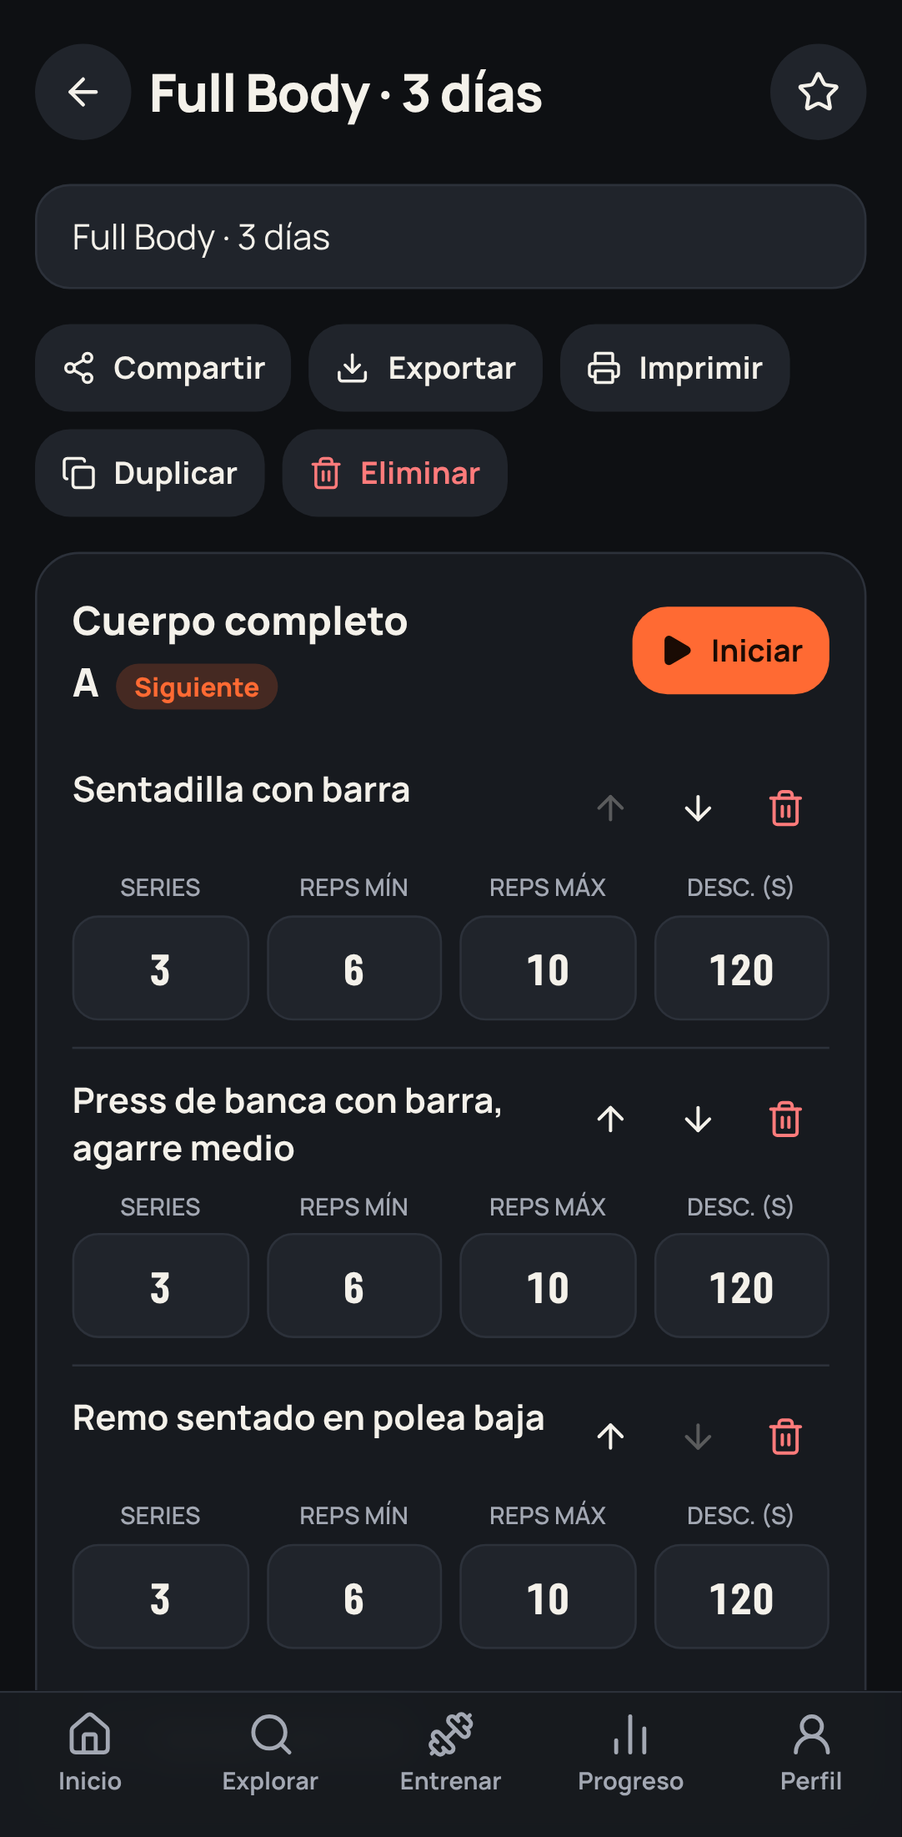
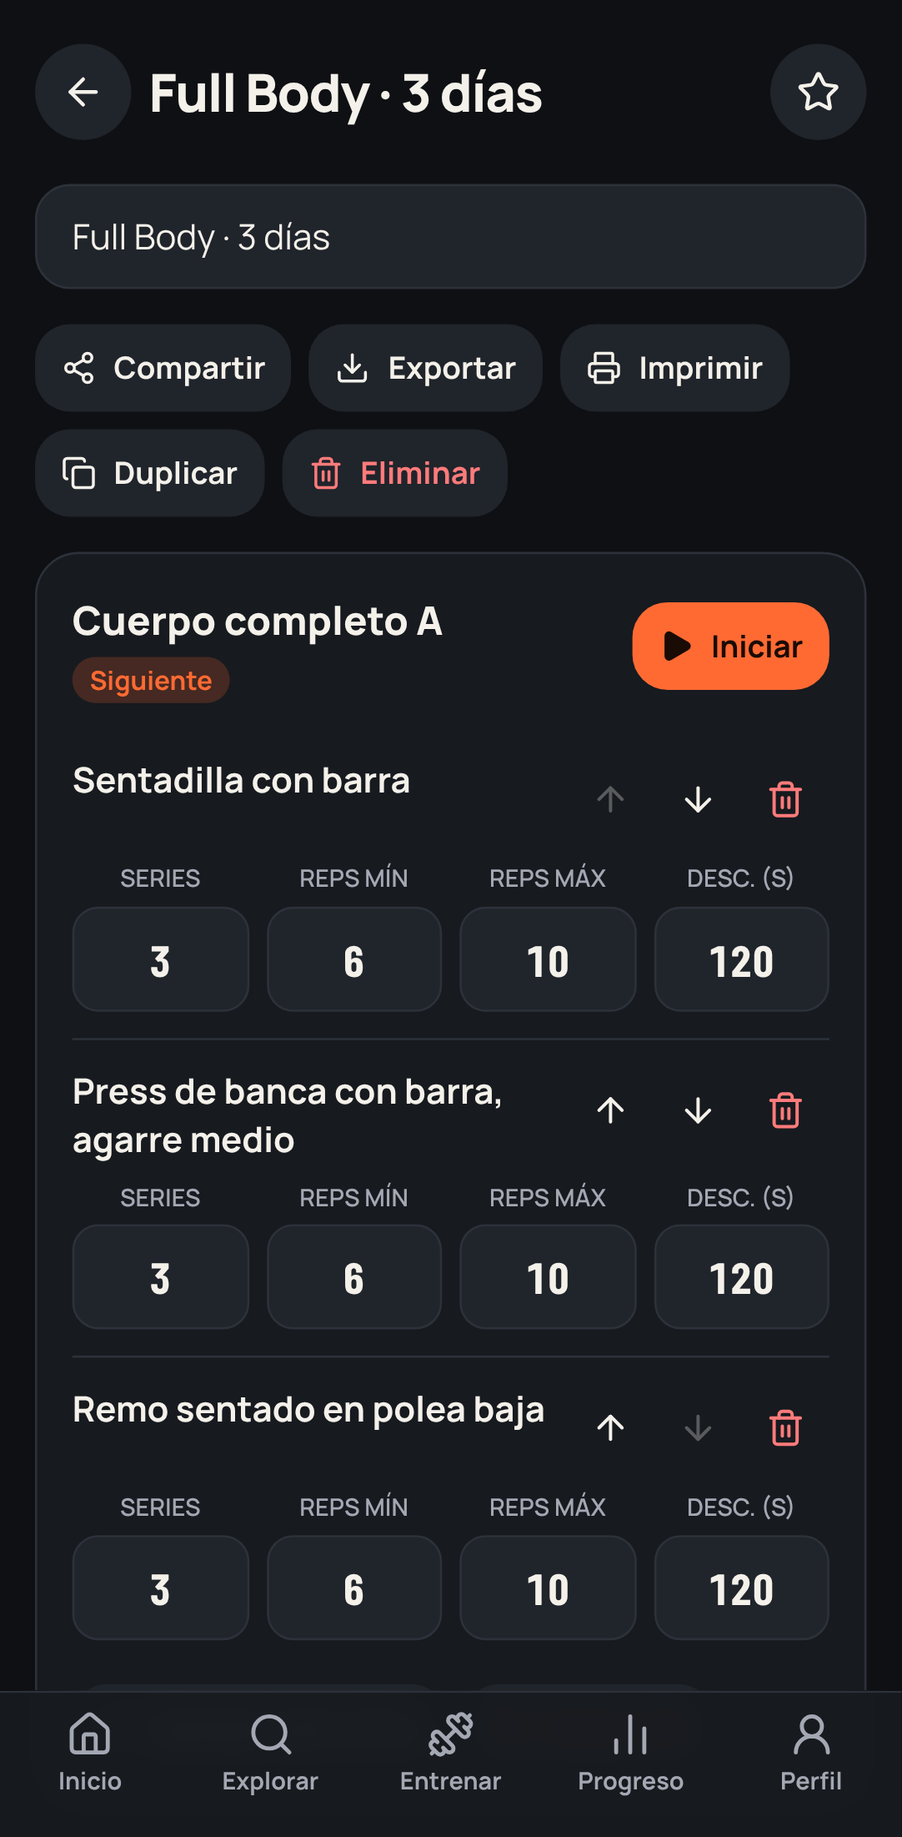
v0.4: rutina propia eligiendo ejercicios y borrado desde la lista
Claude-Session: https://claude.ai/code/session_019mFW7hgLcprbgp2Q4SLbXT

diff --git a/src/pages/Train.tsx b/src/pages/Train.tsx
@@ -1,13 +1,13 @@
 import { useRef, useState } from 'react'
 import { Link, useNavigate } from 'react-router-dom'
-import { ChevronRight, Play, Sparkles, Star, Upload } from 'lucide-react'
+import { ChevronRight, ListPlus, Play, Sparkles, Star, Trash2, Upload } from 'lucide-react'
 import { db, uid } from '../lib/db'
 import { startSession, useActive, useProfile, useRoutines } from '../lib/store'
 import { loadCatalog } from '../lib/catalog'
 import { generateRoutine } from '../engine/generator'
 import { GOAL } from '../lib/labels'
 import type { Goal, Routine } from '../lib/types'
-import { Button, Card, Chip, Empty, Page, Sheet } from '../components/ui'
+import { Button, Card, Chip, Empty, Field, Page, Sheet, inputCls } from '../components/ui'
 
 function validRoutine(r: any): r is Routine {
   return r && typeof r.name === 'string' && Array.isArray(r.days) && r.days.length > 0 && r.days.every((d: any) => typeof d.name === 'string' && Array.isArray(d.items) &&
@@ -20,6 +20,14 @@ export default function Train() {
   const [gen, setGen] = useState(false)
   const [days, setDays] = useState(profile.days), [minutes, setMinutes] = useState(profile.minutes), [goal, setGoal] = useState<Goal>(profile.goal)
   const [msg, setMsg] = useState('')
+  const [own, setOwn] = useState(false), [ownName, setOwnName] = useState(''), [ownDays, setOwnDays] = useState(3)
+  const [del, setDel] = useState<Routine | null>(null)
+  const createOwn = async (e: React.FormEvent) => {
+    e.preventDefault()
+    const now = Date.now()
+    const r: Routine = { id: uid(), name: ownName.trim() || 'Mi rutina', split: 'Personalizada', days: Array.from({ length: ownDays }, (_, i) => ({ name: `Día ${i + 1}`, items: [] })), fav: false, createdAt: now, updatedAt: now, nextDay: 0, generated: false }
+    await db.routines.put(r); setOwn(false); setOwnName(''); nav(`/routine/${r.id}`)
+  }
   const file = useRef<HTMLInputElement>(null)
 
   const create = async () => {
@@ -47,8 +55,9 @@ export default function Train() {
         {active && <Card className="border-ember bg-ember/10"><p className="font-extrabold">{active.dayName} en curso</p>
           <Button variant="primary" size="lg" className="mt-3 w-full" onClick={() => nav('/workout')}><Play size={20} fill="currentColor" /> Continuar entrenamiento</Button></Card>}
 
+        <Button size="lg" variant="primary" className="w-full" onClick={() => setGen(true)}><Sparkles size={20} /> Generar rutina automática</Button>
         <div className="grid grid-cols-2 gap-3">
-          <Button size="lg" variant="primary" onClick={() => setGen(true)}><Sparkles size={20} /> Generar rutina</Button>
+          <Button size="lg" onClick={() => setOwn(true)}><ListPlus size={20} /> Crear la mía</Button>
           <Button size="lg" disabled={!!active} onClick={async () => { await startSession(null); nav('/workout') }}>Entreno libre</Button>
         </div>
 
@@ -59,12 +68,27 @@ export default function Train() {
           {msg && <p className="mb-2 text-sm text-mute" role="status">{msg}</p>}
           {routines.length === 0 ? <Empty title="Sin rutinas todavía">Genera una rutina a tu medida o importa un archivo compartido.</Empty> : (
             <ul className="space-y-2">{routines.map((r) => (
-              <li key={r.id}><Link to={`/routine/${r.id}`} className="flex min-h-16 items-center gap-3 rounded-2xl border border-line bg-surface px-4 py-3">
+              <li key={r.id} className="flex items-stretch gap-2"><Link to={`/routine/${r.id}`} className="flex min-h-16 min-w-0 flex-1 items-center gap-3 rounded-2xl border border-line bg-surface px-4 py-3">
                 <div className="min-w-0 flex-1"><p className="flex items-center gap-2 truncate font-bold">{r.fav && <Star size={16} className="shrink-0 text-amber" fill="currentColor" aria-label="Favorita" />}{r.name}</p>
                   <p className="truncate text-sm text-mute">{r.days.length} días · siguiente: {r.days[r.nextDay % r.days.length]?.name}</p></div>
-                <ChevronRight className="text-mute" aria-hidden /></Link></li>))}</ul>)}
+                <ChevronRight className="shrink-0 text-mute" aria-hidden /></Link>
+                <button aria-label={`Eliminar rutina ${r.name}`} onClick={() => setDel(r)} className="grid w-12 shrink-0 place-items-center rounded-2xl border border-line bg-surface text-bad"><Trash2 size={18} /></button></li>))}</ul>)}
         </section>
       </div>
+
+      <Sheet open={own} onClose={() => setOwn(false)} title="Crear mi rutina">
+        <form onSubmit={createOwn} className="space-y-5">
+          <Field label="Nombre"><input className={inputCls} maxLength={60} value={ownName} onChange={(e) => setOwnName(e.target.value)} placeholder="Ej. Pierna y glúteo" /></Field>
+          <fieldset><legend className="mb-2 text-sm font-semibold">¿Cuántos días distintos tiene?</legend><div className="flex flex-wrap gap-2">{[1, 2, 3, 4, 5, 6, 7].map((d) => <Chip key={d} type="button" on={ownDays === d} onClick={() => setOwnDays(d)} aria-label={`${d} ${d === 1 ? 'día' : 'días'}`}>{d}</Chip>)}</div></fieldset>
+          <p className="text-sm text-mute">En el siguiente paso eliges los ejercicios de cada día. Después puedes agregar o quitar días.</p>
+          <Button type="submit" variant="primary" size="lg" className="w-full">Elegir ejercicios</Button>
+        </form>
+      </Sheet>
+      <Sheet open={!!del} onClose={() => setDel(null)} title="¿Eliminar esta rutina?">
+        <p className="text-sm text-mute">Se eliminará «{del?.name}». Tus entrenamientos ya registrados se conservan en el historial.</p>
+        <div className="mt-4 flex gap-3"><Button className="flex-1" onClick={() => setDel(null)}>Cancelar</Button>
+          <Button variant="danger" className="flex-1" onClick={async () => { if (del) await db.routines.delete(del.id); setDel(null) }}>Eliminar rutina</Button></div>
+      </Sheet>
 
       <Sheet open={gen} onClose={() => setGen(false)} title="Generar rutina">
         <div className="space-y-5">

diff --git a/src/pages/RoutineView.tsx b/src/pages/RoutineView.tsx
@@ -8,6 +8,7 @@ import { exById, useCatalog } from '../lib/catalog'
 import { prescribe } from '../engine/prescription'
 import type { Routine, RoutineItem } from '../lib/types'
 import { Button, Card, Empty, Page, Sheet, inputCls } from '../components/ui'
+
 import { ExercisePicker } from './Explore'
 
 export const download = (name: string, text: string, type = 'application/json') => {
@@ -28,6 +29,7 @@ export default function RoutineView() {
   const r = useLiveQuery(async () => (await db.routines.get(id!)) ?? null, [id], undefined)
   const [addTo, setAddTo] = useState<number | null>(null)
   const [confirm, setConfirm] = useState(false)
+  const [delDay, setDelDay] = useState<number | null>(null)
   const [note, setNote] = useState('')
   const back = <button onClick={() => nav('/train')} aria-label="Volver" className="grid size-11 shrink-0 place-items-center rounded-full bg-raised"><ArrowLeft size={20} /></button>
   if (r === undefined) return <Page title="Rutina" back={back}><p className="text-mute" role="status">Cargando…</p></Page>
@@ -58,7 +60,10 @@ export default function RoutineView() {
         {r.days.map((d, di) => (
           <Card key={di}>
             <div className="flex items-center justify-between gap-3">
-              <h2 className="text-lg font-extrabold">{d.name}{r.nextDay % r.days.length === di && <span className="ml-2 rounded-full bg-ember/20 px-2 py-0.5 text-xs text-ember">Siguiente</span>}</h2>
+              <div className="min-w-0 flex-1">
+                <label><span className="sr-only">Nombre del día {di + 1}</span><input value={d.name} maxLength={40} onChange={(e) => save({ days: r.days.map((x, i) => (i === di ? { ...x, name: e.target.value } : x)) })} className="w-full rounded-lg bg-transparent text-lg font-extrabold outline-offset-4" /></label>
+                {r.nextDay % r.days.length === di && <span className="rounded-full bg-ember/20 px-2 py-0.5 text-xs font-bold text-ember">Siguiente</span>}
+              </div>
               <Button size="sm" variant="primary" className="no-print" disabled={!!active || d.items.length === 0} onClick={async () => { await startSession(r, di); nav('/workout') }}><Play size={16} fill="currentColor" /> Iniciar</Button>
             </div>
             <ul className="mt-3 divide-y divide-line">
@@ -80,18 +85,33 @@ export default function RoutineView() {
                   </div>
                 </li>))}
             </ul>
-            {d.items.length === 0 && <p className="mt-2 text-sm text-mute">Este día no tiene ejercicios.</p>}
-            <Button size="sm" className="no-print mt-2" onClick={() => setAddTo(di)}><Plus size={16} /> Agregar ejercicio</Button>
+            {d.items.length === 0 && <p className="mt-2 text-sm text-mute">Este día aún no tiene ejercicios. Agrega los que quieras desde el catálogo.</p>}
+            <div className="no-print mt-2 flex flex-wrap gap-2">
+              <Button size="sm" variant={d.items.length === 0 ? 'primary' : 'soft'} onClick={() => setAddTo(di)}><Plus size={16} /> Agregar ejercicios</Button>
+              {r.days.length > 1 && <Button size="sm" variant="danger" onClick={() => setDelDay(di)}><Trash2 size={16} /> Quitar día</Button>}
+            </div>
           </Card>
         ))}
+        {r.days.length < 7 && <Button className="no-print w-full" onClick={() => save({ days: [...r.days, { name: `Día ${r.days.length + 1}`, items: [] }] })}><Plus size={18} /> Agregar día</Button>}
       </div>
 
-      <Sheet open={addTo !== null} onClose={() => setAddTo(null)} title="Agregar ejercicio">
-        <ExercisePicker onPick={(ex) => {
-          const di = addTo!
-          if (!r.days[di].items.some((i) => i.exId === ex.id)) setItems(di, (x) => [...x, { exId: ex.id, ...prescribe(profile.goal, profile.level, ex.m === 'compound') }])
-          setAddTo(null)
-        }} />
+      <Sheet open={addTo !== null} onClose={() => setAddTo(null)} title={addTo !== null ? `Ejercicios · ${r.days[addTo]?.name ?? ''}` : ''}>
+        {addTo !== null && r.days[addTo] && <>
+          <div className="sticky top-0 z-10 -mx-1 mb-3 flex items-center justify-between gap-3 rounded-2xl bg-raised px-4 py-2">
+            <p className="text-sm font-semibold" aria-live="polite">{r.days[addTo].items.length} {r.days[addTo].items.length === 1 ? 'ejercicio elegido' : 'ejercicios elegidos'}</p>
+            <Button size="sm" variant="primary" onClick={() => setAddTo(null)}>Listo</Button>
+          </div>
+          <p className="mb-3 text-sm text-mute">Toca para agregar; toca de nuevo para quitar. Las series y repeticiones se proponen según tu objetivo y puedes cambiarlas después.</p>
+          <ExercisePicker selected={new Set(r.days[addTo].items.map((i) => i.exId))} onPick={(ex) => {
+            const di = addTo
+            setItems(di, (x) => x.some((i) => i.exId === ex.id) ? x.filter((i) => i.exId !== ex.id) : [...x, { exId: ex.id, ...prescribe(profile.goal, profile.level, ex.m === 'compound') }])
+          }} />
+        </>}
+      </Sheet>
+      <Sheet open={delDay !== null} onClose={() => setDelDay(null)} title="¿Quitar este día?">
+        <p className="text-sm text-mute">Se quitará «{delDay !== null ? r.days[delDay]?.name : ''}» con sus ejercicios de esta rutina.</p>
+        <div className="mt-4 flex gap-3"><Button className="flex-1" onClick={() => setDelDay(null)}>Cancelar</Button>
+          <Button variant="danger" className="flex-1" onClick={async () => { const i = delDay!; await save({ days: r.days.filter((_, j) => j !== i), nextDay: 0 }); setDelDay(null) }}>Quitar día</Button></div>
       </Sheet>
       <Sheet open={confirm} onClose={() => setConfirm(false)} title="¿Eliminar esta rutina?">
         <p className="text-sm text-mute">Tus entrenamientos registrados con ella se conservan en el historial.</p>

diff --git a/e2e/flujo.spec.ts b/e2e/flujo.spec.ts
@@ -129,7 +129,7 @@ test('rutinas: generar, editar, duplicar y eliminar', async ({ page }) => {
   await page.getByRole('dialog').getByRole('button', { name: '30 min' }).click()
   await page.getByRole('button', { name: 'Crear rutina' }).click()
   await expect(page).toHaveURL(/routine\//)
-  await expect(page.getByRole('heading', { name: /Cuerpo completo A/ })).toBeVisible()
+  await expect(page.getByLabel('Nombre del día 1')).toHaveValue('Cuerpo completo A')
   await shot(page, '09-rutina')
   const series = page.getByLabel('Series').first()
   await series.fill('5'); await expect(series).toHaveValue('5')
@@ -175,4 +175,60 @@ test('sin conexión: la app abre y permite registrar un entrenamiento', async ({
   await expect(page.getByRole('timer', { name: 'Descanso' })).toBeVisible()
   await page.goto('/explore'); await expect(page.getByText('868 ejercicios')).toBeVisible()
   await context.setOffline(false)
+})
+
+test('rutina propia: elegir ejercicios, editar días, entrenar y borrar desde la lista', async ({ page }) => {
+  await onboard(page)
+  await page.getByRole('link', { name: 'Entrenar', exact: true }).click()
+  await page.getByRole('button', { name: 'Crear la mía' }).click()
+  await page.getByLabel('Nombre').fill('Pierna y glúteo')
+  await page.getByRole('button', { name: '2 días' }).click()
+  await page.getByRole('button', { name: 'Elegir ejercicios' }).click()
+  await expect(page).toHaveURL(/routine\//)
+  await expect(page.getByLabel('Nombre del día 2')).toHaveValue('Día 2')
+
+  // Día 1: elegir 3, quitar 1 dentro del mismo selector
+  await page.getByLabel('Nombre del día 1').fill('Pierna')
+  await page.getByRole('button', { name: 'Agregar ejercicios' }).first().click()
+  const dlg = page.getByRole('dialog')
+  await dlg.getByLabel('Buscar ejercicio').fill('sentadilla con barra')
+  await dlg.locator('button.text-left[aria-pressed]').filter({ hasText: /^Sentadilla con barra/ }).first().click()
+  await dlg.getByLabel('Buscar ejercicio').fill('prensa de piernas')
+  await dlg.locator('button.text-left[aria-pressed]').filter({ hasText: 'Prensa de piernas' }).first().click()
+  await dlg.getByLabel('Buscar ejercicio').fill('hip thrust')
+  await dlg.locator('button.text-left[aria-pressed]').filter({ hasText: 'Hip thrust con barra' }).first().click()
+  await expect(dlg.getByText('3 ejercicios elegidos')).toBeVisible()
+  await expect(dlg.locator('button.text-left[aria-pressed="true"]')).toHaveCount(1)
+  await dlg.locator('button.text-left[aria-pressed="true"]').click() // quita el hip thrust
+  await expect(dlg.getByText('2 ejercicios elegidos')).toBeVisible()
+  await shot(page, '16-elegir-ejercicios')
+  await dlg.getByRole('button', { name: 'Listo' }).click()
+  await expect(page.getByText('Prensa de piernas')).toBeVisible()
+  await expect(page.getByText('Hip thrust con barra')).toHaveCount(0)
+
+  // Días: agregar uno y quitar otro
+  await page.getByRole('button', { name: 'Agregar día' }).click()
+  await expect(page.getByLabel('Nombre del día 3')).toBeVisible()
+  await page.getByRole('button', { name: 'Quitar día' }).nth(1).click()
+  await page.getByRole('dialog').getByRole('button', { name: 'Quitar día' }).click()
+  await expect(page.getByLabel('Nombre del día 3')).toHaveCount(0)
+
+  // Persiste y se puede entrenar con ella
+  await page.reload()
+  await expect(page.getByLabel('Nombre del día 1')).toHaveValue('Pierna')
+  await page.getByRole('button', { name: 'Iniciar' }).first().click()
+  await expect(page.getByRole('heading', { name: 'Pierna' })).toBeVisible()
+  await expect(page.getByText('Prensa de piernas')).toBeVisible()
+  await page.getByRole('button', { name: 'Descartar entrenamiento' }).click()
+  await page.getByRole('button', { name: 'Descartar', exact: true }).click()
+
+  // Borrar desde la lista, con confirmación
+  await expect(page).toHaveURL(/train/)
+  await page.getByRole('button', { name: 'Eliminar rutina Pierna y glúteo' }).click()
+  await page.getByRole('dialog').getByRole('button', { name: 'Cancelar' }).click()
+  await expect(page.getByRole('link', { name: /Pierna y glúteo/ })).toBeVisible()
+  await page.getByRole('button', { name: 'Eliminar rutina Pierna y glúteo' }).click()
+  await page.getByRole('dialog').getByRole('button', { name: 'Eliminar rutina' }).click()
+  await expect(page.getByRole('link', { name: /Pierna y glúteo/ })).toHaveCount(0)
+  await shot(page, '17-mis-rutinas')
 })

diff --git a/src/pages/Explore.tsx b/src/pages/Explore.tsx
@@ -1,6 +1,6 @@
 import { useMemo, useState } from 'react'
 import { Link, useSearchParams } from 'react-router-dom'
-import { Search, SlidersHorizontal, X } from 'lucide-react'
+import { Check, Search, SlidersHorizontal, X } from 'lucide-react'
 import { searchExercises, useCatalog } from '../lib/catalog'
 import { CATEGORY, EQUIP, EQUIPS, LEVEL, MUSCLE, MUSCLES } from '../lib/labels'
 import type { Equip, Exercise, Muscle } from '../lib/types'
@@ -8,17 +8,18 @@ import { Button, Card, Chip, Empty, Page, Sheet, cx, inputCls } from '../compone
 import { ExerciseMedia } from '../components/ExerciseMedia'
 import { BodyMap } from '../components/BodyMap'
 
-export function ExerciseRow({ ex, onPick, right }: { ex: Exercise; onPick?: (ex: Exercise) => void; right?: React.ReactNode }) {
+export function ExerciseRow({ ex, onPick, right, picked }: { ex: Exercise; onPick?: (ex: Exercise) => void; right?: React.ReactNode; picked?: boolean }) {
   const body = <>
     <ExerciseMedia ex={ex} animate={false} className="w-24 shrink-0 !rounded-xl" />
     <div className="min-w-0 flex-1"><p className="line-clamp-2 font-bold leading-snug">{ex.n}</p>
       <p className="mt-0.5 truncate text-sm text-mute">{MUSCLE[ex.p[0]]} · {EQUIP[ex.eq]}</p>
-      <p className="text-xs font-semibold text-mute">{LEVEL[ex.lv]}</p></div>{right}</>
-  const cls = 'flex w-full items-center gap-3 rounded-2xl border border-line bg-surface p-2 text-left'
-  return onPick ? <button type="button" className={cls} onClick={() => onPick(ex)}>{body}</button> : <Link to={`/explore/${encodeURIComponent(ex.id)}`} className={cls}>{body}</Link>
+      <p className="text-xs font-semibold text-mute">{LEVEL[ex.lv]}</p></div>{right}
+    {picked !== undefined && <span className={cx('grid size-9 shrink-0 place-items-center rounded-full border-2', picked ? 'border-ok bg-ok text-black' : 'border-line text-transparent')} aria-hidden><Check size={18} strokeWidth={3} /></span>}</>
+  const cls = cx('flex w-full items-center gap-3 rounded-2xl border bg-surface p-2 text-left', picked ? 'border-ok' : 'border-line')
+  return onPick ? <button type="button" className={cls} aria-pressed={picked} onClick={() => onPick(ex)}>{body}</button> : <Link to={`/explore/${encodeURIComponent(ex.id)}`} className={cls}>{body}</Link>
 }
 
-export function ExercisePicker({ onPick, initialMuscle }: { onPick?: (ex: Exercise) => void; initialMuscle?: Muscle }) {
+export function ExercisePicker({ onPick, initialMuscle, selected }: { onPick?: (ex: Exercise) => void; initialMuscle?: Muscle; selected?: Set<string> }) {
   const { items, error, ready } = useCatalog()
   const [params, setParams] = useSearchParams()
   const [q, setQ] = useState(onPick ? '' : params.get('q') ?? '')
@@ -58,7 +59,7 @@ export function ExercisePicker({ onPick, initialMuscle }: { onPick?: (ex: Exerci
         <p className="mt-3 text-sm text-mute" aria-live="polite">{ready ? `${list.length} ejercicios` : 'Cargando catálogo…'}</p>
         {error && <p className="mt-3 text-sm text-bad" role="alert">{error}</p>}
         <div className="mt-2 space-y-2">
-          {list.slice(0, limit).map((x) => <ExerciseRow key={x.id} ex={x} onPick={onPick} />)}
+          {list.slice(0, limit).map((x) => <ExerciseRow key={x.id} ex={x} onPick={onPick} picked={selected ? selected.has(x.id) : undefined} />)}
           {ready && !error && list.length === 0 && <Empty title="Sin resultados">Prueba con otra palabra o quita algún filtro.</Empty>}
           {list.length > limit && <Button className="w-full" onClick={() => setLimit(limit + 30)}>Mostrar más</Button>}
         </div>

diff --git a/src/pages/Profile.tsx b/src/pages/Profile.tsx
@@ -57,7 +57,7 @@ export default function ProfilePage() {
             <Button onClick={() => file.current?.click()}>Restaurar respaldo</Button><input ref={file} type="file" accept="application/json,.json" className="hidden" aria-label="Archivo de respaldo" onChange={(e) => onImport(e.target.files?.[0])} />
             <Button variant="danger" onClick={() => setConfirm(true)}>Borrar datos de este dispositivo</Button></div>
           {msg && <p className="mt-3 text-sm" role="status">{msg}</p>}</Card>
-        <Card><h2 className="font-extrabold">Acerca de</h2><p className="mt-1 text-sm text-mute">Fitness Pro v0.3. Catálogo y fotografías: free-exercise-db (dominio público, Unlicense). Las recomendaciones son orientativas y no sustituyen la valoración de un profesional de la salud o del ejercicio.</p></Card>
+        <Card><h2 className="font-extrabold">Acerca de</h2><p className="mt-1 text-sm text-mute">Fitness Pro v0.4. Catálogo y fotografías: free-exercise-db (dominio público, Unlicense). Las recomendaciones son orientativas y no sustituyen la valoración de un profesional de la salud o del ejercicio.</p></Card>
       </div>}
       <Sheet open={confirm} onClose={() => setConfirm(false)} title="¿Borrar los datos de este dispositivo?">
         <p className="text-sm text-mute">Se eliminarán tu perfil, rutinas e historial de este dispositivo{acct ? ' y se cerrará la sesión; lo ya sincronizado en tu cuenta no se toca' : '. No se puede deshacer; descarga un respaldo antes si quieres conservarlos'}.</p>

diff --git a/docs/TESTING.md b/docs/TESTING.md
@@ -4,7 +4,7 @@
 |---|---|---|
 | Unitarias (motores, catálogo, nutrición) | Vitest | 47/47 |
 | API de cuentas y sincronización sobre Postgres embebido | Vitest + PGlite | 15/15 |
-| End-to-end móvil (Pixel 7 emulado, Chrome) | Playwright | 8/8 |
+| End-to-end móvil (Pixel 7 emulado, Chrome) | Playwright | 9/9 |
 | End-to-end escritorio 1280 px | Playwright | 1/1 |
 | Tipos | `tsc` estricto | sin errores |
 | Dependencias de producción | `npm audit --omit=dev` | 0 vulnerabilidades |
@@ -18,6 +18,7 @@
 5. **Sin conexión**: la app abre, inicia entrenamiento, registra serie y muestra el catálogo.
 7. **Cuenta con dos dispositivos**: registrar en A, entrar en B desde el onboarding (contraseña incorrecta rechazada), B recibe perfil e historial, B borra una rutina y A lo recibe, la sesión sobrevive a recargar, cerrar sesión conserva datos locales, eliminar cuenta impide volver a entrar.
 8. **Nutrición y cuerpo**: objetivos calculados, alimento con kcal automáticas, agua, sueño, energía, persistencia tras recargar, resumen en inicio, medidas con % de grasa estimado, foto guardada/abierta/eliminada.
+9. **Rutina propia**: crear con 2 días, elegir y quitar ejercicios en el selector, agregar y quitar días, persistencia, iniciar entrenamiento con ella, borrar desde la lista (cancelar y confirmar).
 6. Escritorio: navegación lateral, sin desborde horizontal en las 5 secciones.
 
 ## Lighthouse 13 (móvil simulado, build de producción en local)

diff --git a/docs/CHANGELOG.md b/docs/CHANGELOG.md
@@ -1,4 +1,7 @@
 # Cambios
+## 0.4.0 — 2026-11-24
+Crear rutina propia eligiendo ejercicios (selección múltiple), renombrar/agregar/quitar días, y borrar rutinas directamente desde la lista con confirmación.
+
 ## 0.3.0 — 2026-11-24
 Nutrición y cuerpo: diario de calorías y macros con objetivos orientativos, agua, sueño, energía y recuperación; medidas corporales y % de grasa estimado; fotos de progreso privadas (solo en el dispositivo). Sexo opcional en el perfil. Corrección: toques muy seguidos al registrar series o agua ya no pueden pisarse entre sí.
 
